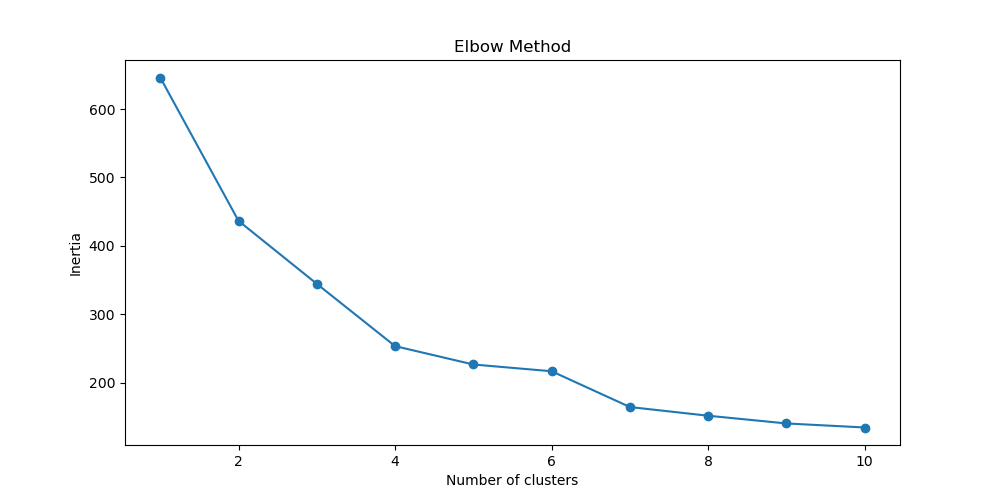
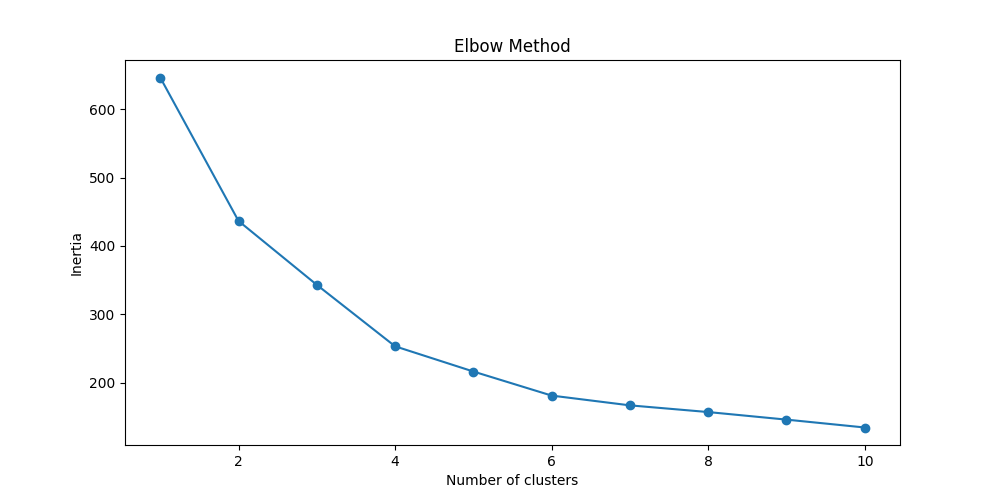
fixed some bugs in custom k-means

diff --git a/K-Means-Clustering/src/k_mean.py b/K-Means-Clustering/src/k_mean.py
@@ -1,7 +1,7 @@
 import numpy as np
-from matplotlib.pyplot import pyplot as plt
+import matplotlib.pyplot as plt
 
-def euclidean_distance(self, sample, point):
+def euclidean_distance(sample, point):
         return np.sqrt(np.sum(sample - point))
 
 class CustomKMeans:
@@ -14,10 +14,11 @@ class CustomKMeans:
         
     def predict(self, x):
         self.x = x
+        self.x = self.x.to_numpy()
         self.n_samples , self.n_features = x.shape
         
-        random_sample_idxs = np.random.choice(self.n_samples, self.x, retplace=False)
-        self.centroids = [self.xp[idx] for idx in random_sample_idxs]
+        random_sample_idxs = np.random.choice(self.n_samples, self.k, replace=False)
+        self.centroids = [self.x[idx] for idx in random_sample_idxs]
         
         for _ in range(self.max_iter):
             self.clusters = self._create_clusters(self.centroids)
@@ -42,6 +43,8 @@ class CustomKMeans:
             clusters[centeroid_idx].append(idx)
         return clusters
     
+
+    
     def _closest_centroid(self, sample, centroids):
         distances = [euclidean_distance(sample, point) for point in centroids]
         closest_idx = np.argmin(distances)
@@ -50,8 +53,8 @@ class CustomKMeans:
     
     
     def _get_centroids(self, clusters):
-        centroids = np.zeros(self.k, self.n_features)
-        for cluster_idx, cluster in enumerate(cluster):
+        centroids = np.zeros((self.k, self.n_features))
+        for cluster_idx, cluster in enumerate(clusters):
             cluster_mean = np.mean(self.x[cluster], axis=0)
             centroids[cluster_idx] = cluster_mean
         return centroids

diff --git a/K-Means-Clustering/src/data_clustering.py b/K-Means-Clustering/src/data_clustering.py
@@ -1,5 +1,5 @@
 from sklearn.cluster import KMeans
-import matplotlib.pyplot as plt
+from matplotlib import pyplot as plt
 from k_mean import CustomKMeans
 
 def get_cluster_model(df, k, model_type='custom'):
@@ -9,7 +9,7 @@ def get_cluster_model(df, k, model_type='custom'):
         return model
     elif model_type == 'custom':
         model = CustomKMeans(k)
-        model.fit(df)
+        # model.fit(df)
         return model
 
 def get_inertias_for_clustering(df):
